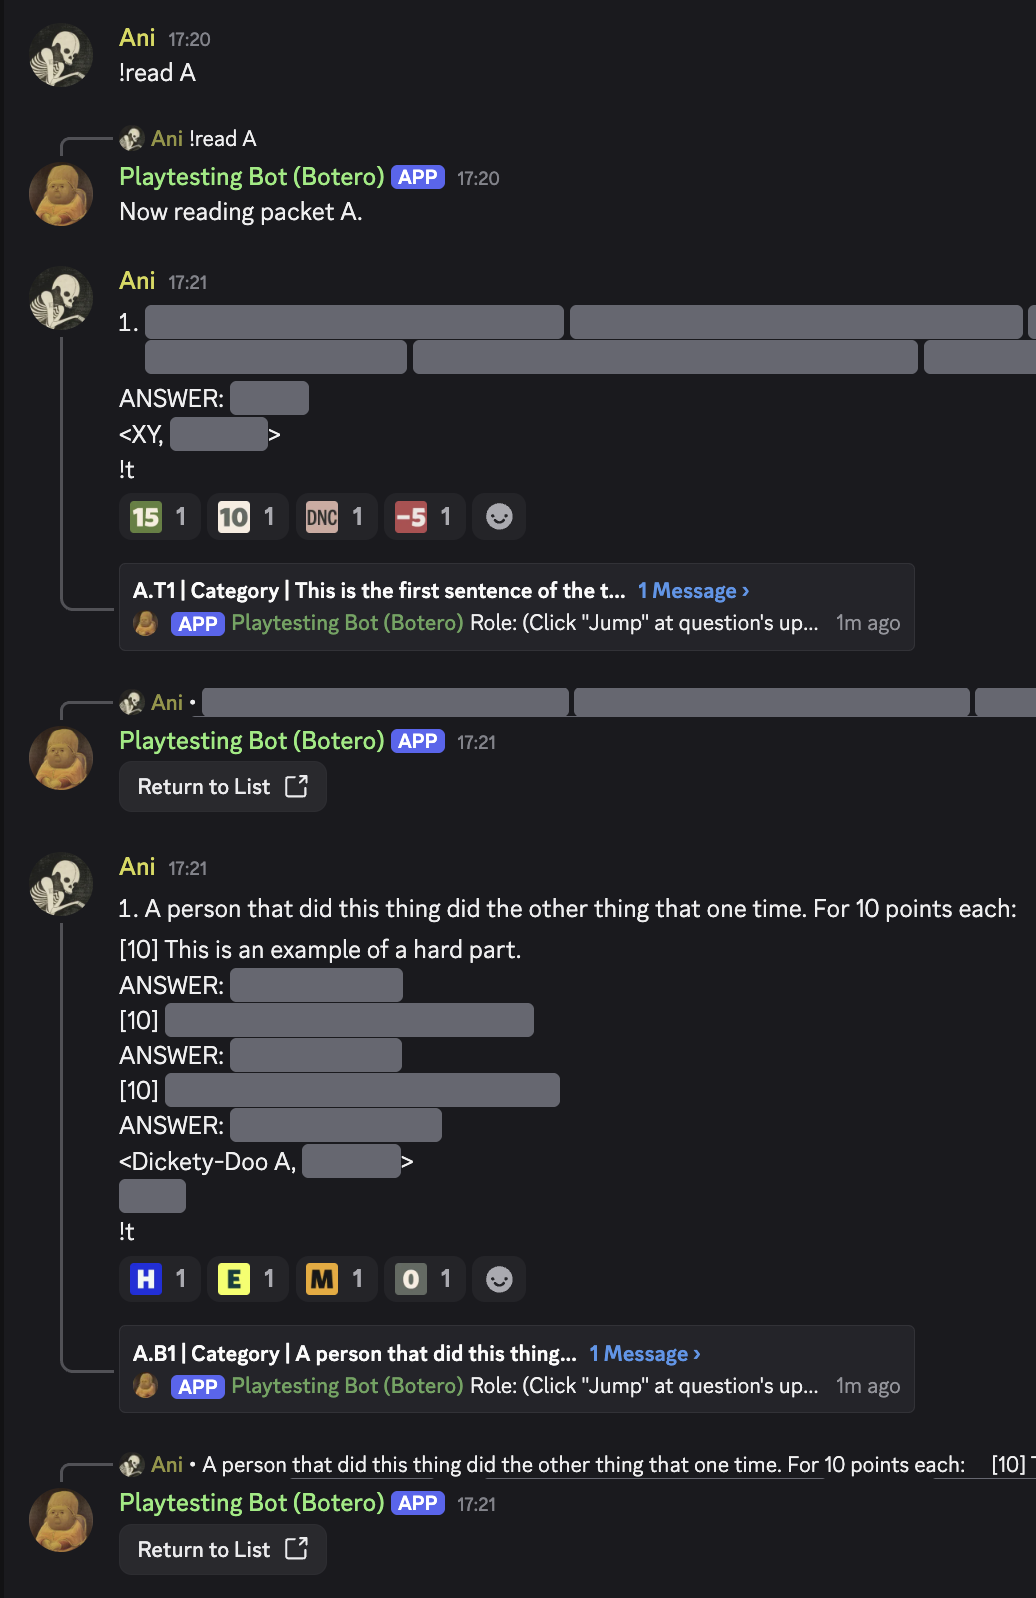
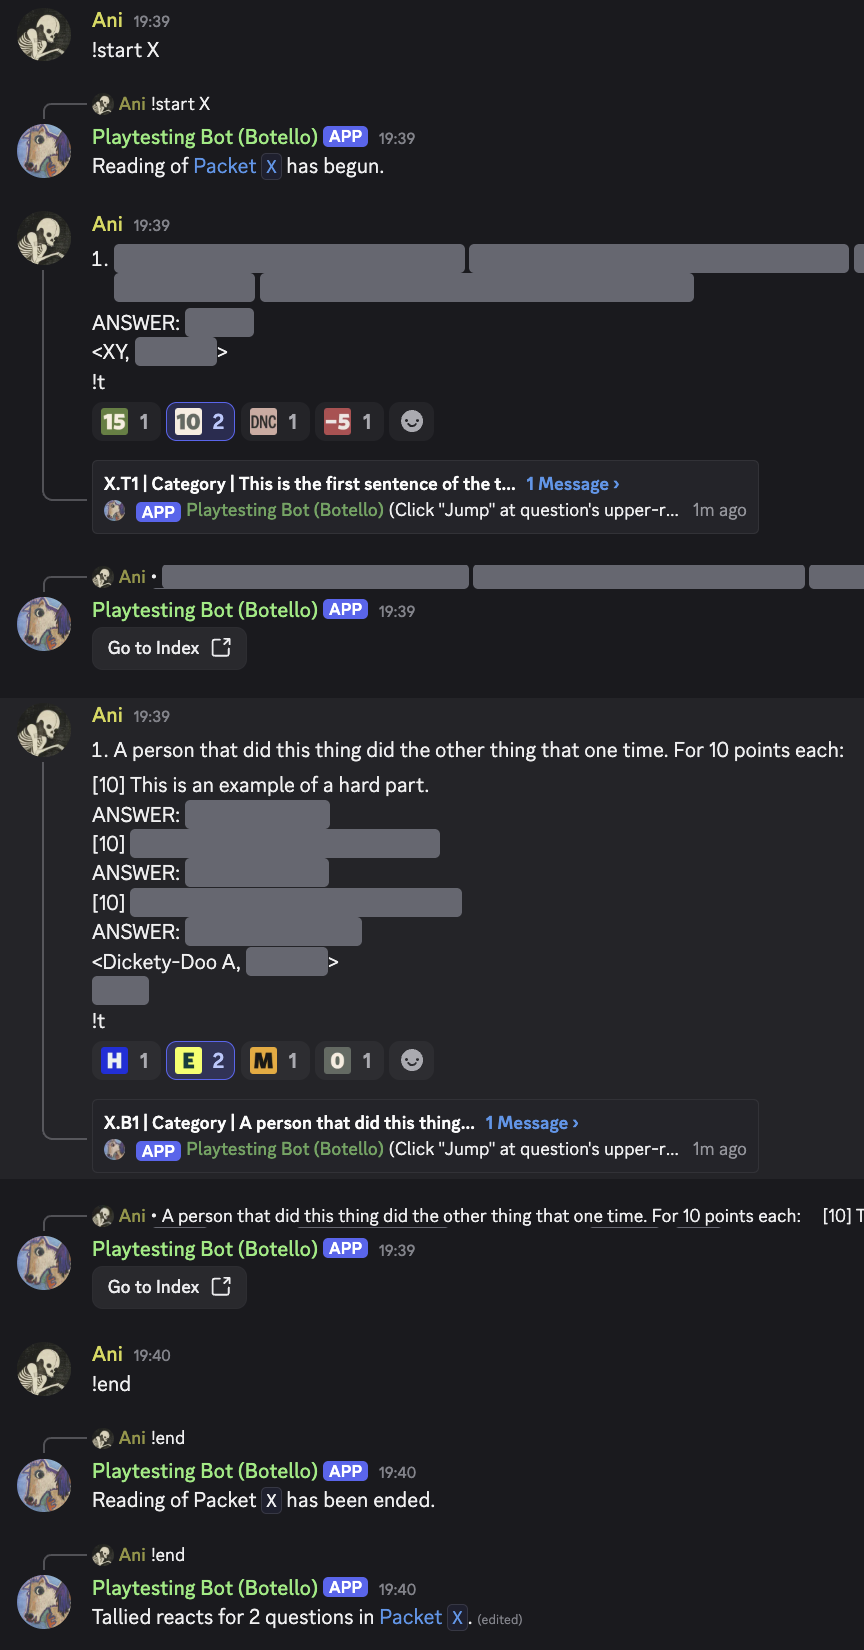
Fix typo; update bulk and echo example images

diff --git a/src/bot.ts b/src/bot.ts
@@ -97,12 +97,12 @@ client.on("messageCreate", async (message) => {
                             ) {
                                 closingVerb = "ended";
                             } else {
-                                closingVerb = "cleared";
+                                closingVerb = "been cleared";
                             }
                             if (currentPacket) {
                                 updatePacketName(serverId, "");
                                 packetToTally = currentPacket;
-                                endMessage.push(`Reading of Packet \`${currentPacket}\` has been ${closingVerb}.`);
+                                endMessage.push(`Reading of Packet \`${currentPacket}\` has ${closingVerb}.`);
                             } else if (packetArgument) {
                                 updatePacketName(serverId, "");
                                 let packetBulkQuestions = getBulkQuestionsInPacket(serverId, packetArgument);
@@ -204,7 +204,7 @@ client.on("messageCreate", async (message) => {
                             await echoThread.delete();
                             if (currentPacket === packetArgument) {
                                 updatePacketName(serverId, "");
-                                deleteMessage.push(`Reading of Packet \`${currentPacket}\` has been ended.`);
+                                deleteMessage.push(`Reading of Packet \`${currentPacket}\` has ended.`);
                             }
                             deleteMessage.push(`Packet \`${packetArgument}\` and its associated thread have been deleted.`);
                             message.reply(deleteMessage.join(" "));

diff --git a/src/handlers/bulkQuestionHandler.ts b/src/handlers/bulkQuestionHandler.ts
@@ -92,7 +92,7 @@ export default async function handleTally(serverId: string, packetName: string, 
                 } catch {
                     console.log(`Echo message (ID ${bulkQuestion.echo_id} in thread ${echoThreadId}) for question ${bulkQuestion.question_number} in Packet \`${packetName}\` not found.`);
                 }
-                await tallyReply.edit(`Tallied reacts for ${talliedQuestions} of ${packetBulkQuestions.length} question${pluralString} in [{acket \`${packetName}\`](${echoThread.url}) ...`);
+                await tallyReply.edit(`Tallied reacts for ${talliedQuestions} of ${packetBulkQuestions.length} question${pluralString} in [Packet \`${packetName}\`](${echoThread.url}) ...`);
             }
             if (talliedQuestions === packetBulkQuestions.length) {
                 await tallyReply.edit(`Tallied reacts for ${talliedQuestions} question${pluralString} in [Packet \`${packetName}\`](${echoThread.url}).`);
